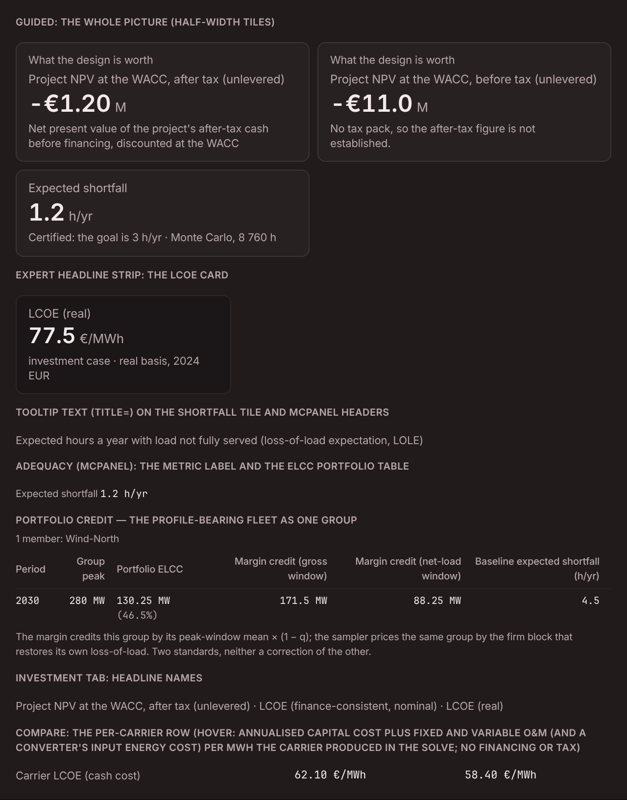
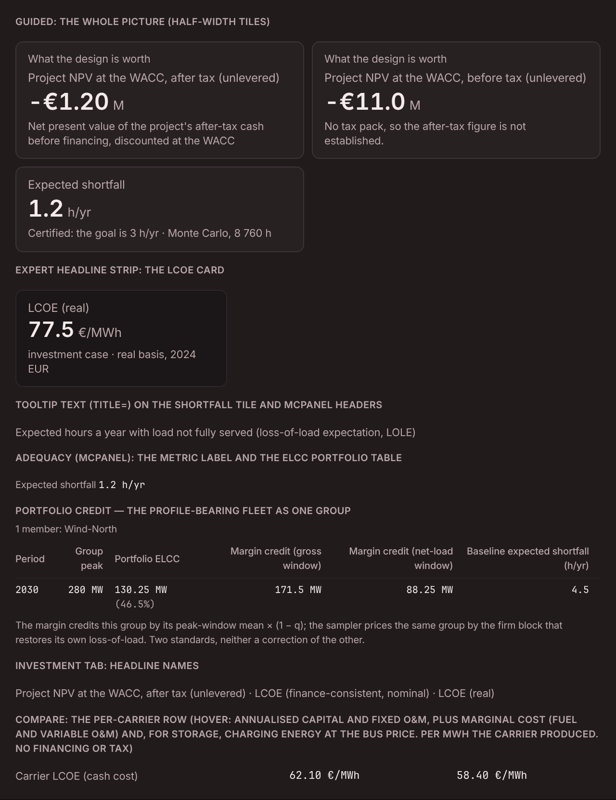
guided-results 04 slice 2: review fixes: Compare hint says what it counts, LoopPanel's MC-LOLE is the expected shortfall, the freshness line lists the NPV by its lead
Claude-Session: https://claude.ai/code/session_01G7qCun3v8M1LpgBQaf1bE4

diff --git a/pypsa-gui/frontend/src/pages/results/LoopPanel.tsx b/pypsa-gui/frontend/src/pages/results/LoopPanel.tsx
@@ -16,6 +16,7 @@ import { EditedSinceStudyBanner } from './EditedSinceStudyBanner'
 import { basisSuffix, type CoptPayload } from './adequacy'
 import { blockerMessage, ciRange, trim } from './McPanel'
 import { signFirstEuro } from '../../utils/format'
+import { figureHint, figureName } from '../../utils/figureWords'
 
 // ── The adequacy-coupled planning loop (Phase 7, plan §3 / spec §4) ──────────
 //
@@ -543,8 +544,8 @@ export function LoopPanel() {
                 </p>
               )}
               {payload.final && (
-                <span className="text-[10px] text-muted font-mono">
-                  final MC-LOLE{' '}
+                <span className="text-[10px] text-muted font-mono" title={figureHint('expected_shortfall')}>
+                  Final {figureName('expected_shortfall').toLowerCase()}{' '}
                   <span data-testid="loop-final-lole">
                     {loleCell(payload.final.mc, unit, floor)}
                   </span>
@@ -573,7 +574,7 @@ export function LoopPanel() {
                     <th className="text-left  font-medium py-1 pr-3">Solve</th>
                     <th className="text-left  font-medium py-1 pr-3">Bound by</th>
                     <th className="text-right font-medium py-1 pr-3">Cost</th>
-                    <th className="text-left  font-medium py-1 pr-3">MC-LOLE (95% CI)</th>
+                    <th className="text-left  font-medium py-1 pr-3" title={figureHint('expected_shortfall')}>{figureName('expected_shortfall')} (95% CI)</th>
                     <th className="text-left  font-medium py-1">Note</th>
                   </tr>
                 </thead>

diff --git a/pypsa-gui/frontend/src/pages/CompareView.mipWithheld.test.tsx b/pypsa-gui/frontend/src/pages/CompareView.mipWithheld.test.tsx
@@ -14,6 +14,7 @@ vi.mock('../api/projects', () => ({
 
 import { projectsApi } from '../api/projects'
 import { EconomicsTab } from './CompareView'
+import { figureBasis, figureName } from '../utils/figureWords'
 
 const WITHHELD = 'Not available (integer solve)'
 const pv = (total: number) => ({ total, by_period: {} })
@@ -100,9 +101,13 @@ describe('Compare economics: LP scenario beside an integer (MIP) one', () => {
     expect(batteryOpex[3]).toBe(WITHHELD)
     // gas holds no charge cost: its OPEX stays a number on both sides.
     expect(gasOpex[2]).toBe('5.00 M€')
-    const [batteryLcoe, gasLcoe] = metricRows('Carrier LCOE (cash cost)')
+    const [batteryLcoe, gasLcoe] = metricRows(figureName('carrier_lcoe'))
     expect(batteryLcoe[2]).toBe(WITHHELD)
     expect(gasLcoe[2]).toMatch(/€\/MWh/)
+    // Its hover says what it counts (guided-results 04, UX (32)): not the investment case's LCOE.
+    for (const cell of screen.getAllByText(figureName('carrier_lcoe'))) {
+      expect(cell.getAttribute('title')).toBe(figureBasis('carrier_lcoe'))
+    }
     const charge = metricRows('Storage charge cost')
     expect(charge.length).toBeGreaterThan(0)
     expect(charge[0][2]).toBe(WITHHELD)

diff --git a/pypsa-gui/frontend/src/pages/hubDesign/cards/ResultsHeadline.tsx b/pypsa-gui/frontend/src/pages/hubDesign/cards/ResultsHeadline.tsx
@@ -250,7 +250,8 @@ export function ResultsHeadline({ reliability, cost, costEur = null, ci, freshne
   const npv = tiles.find(t => t.id === 'investment')
   const figures: HeadlineFigureState[] = [
     ...[rel, npv].filter((t): t is ChapterTile => !!t).map(t => ({
-      label: t.label, state: t.state, freshnessUnknown: freshnessUnknown && t.id === 'reliability',
+      // The lead ("What the design is worth") reads as a list item; the ruled name holds a comma.
+      label: t.lead ?? t.label, state: t.state, freshnessUnknown: freshnessUnknown && t.id === 'reliability',
     })),
     ...(lcoe ? [{ label: HEADLINE_WORDS.lcoe.label, state: cardState(lcoe) }] : []),
     ...(co2 ? [{ label: HEADLINE_WORDS.co2_annual.label, state: cardState(co2) }] : []),

diff --git a/pypsa-gui/frontend/src/utils/figureWords.parity.test.ts b/pypsa-gui/frontend/src/utils/figureWords.parity.test.ts
@@ -65,7 +65,7 @@ describe('Guided and Expert name a figure alike', () => {
   it("Compare's per-carrier cost is not called the investment case's LCOE", () => {
     expect(figureName('carrier_lcoe')).toBe('Carrier LCOE (cash cost)')
     expect(figureName('carrier_lcoe')).not.toBe(figureName('lcoe_real'))
-    expect(figureBasis('carrier_lcoe')).toMatch(/per MWh the carrier produced/)
+    expect(figureBasis('carrier_lcoe')).toMatch(/Per MWh the carrier produced/)
   })
 
   it('LCOE: the Investment tab, the Expert strip and Guided headline (one Words entry)', () => {
